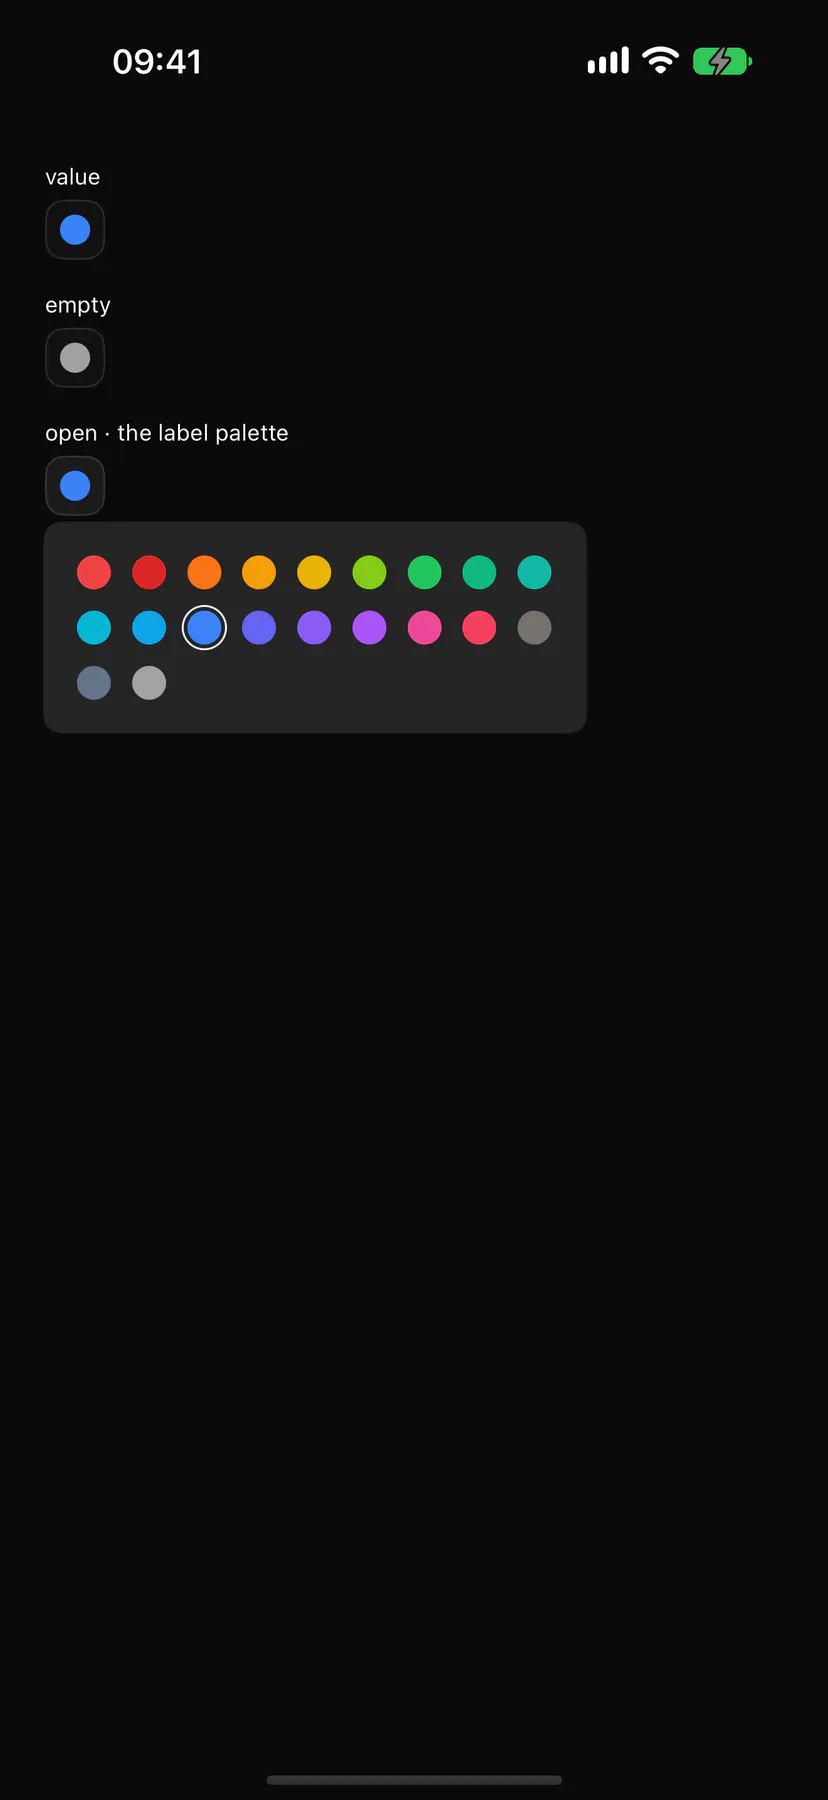
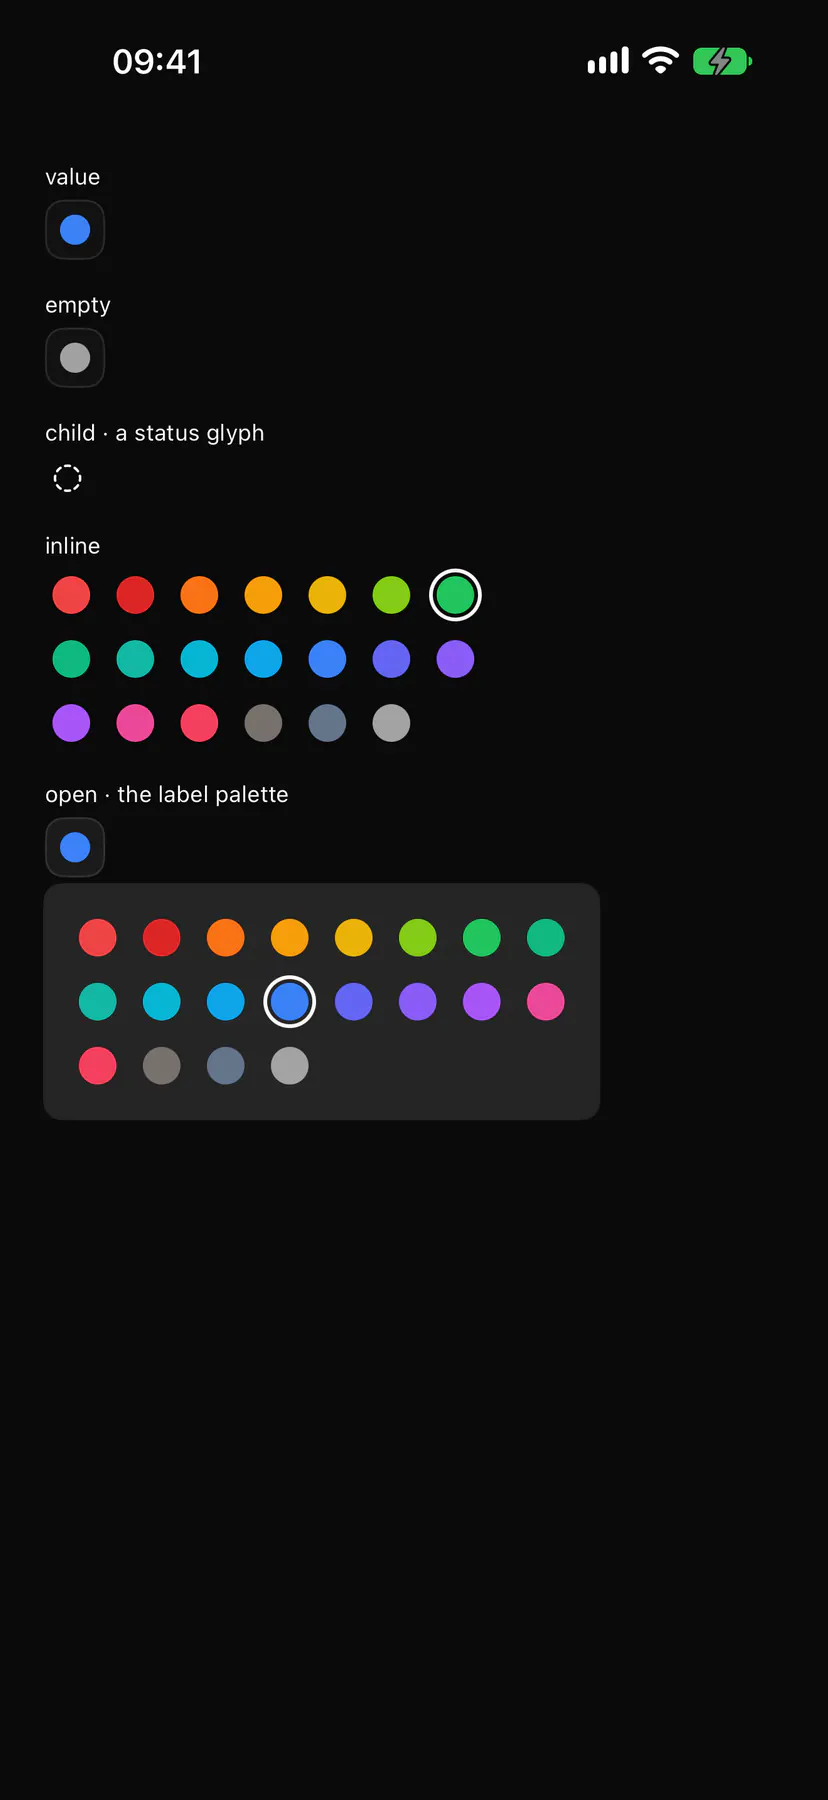
EXP-1775: Swift pickerPick replay + iOS shot of exponential-ui-color-picker

Changed region(s): [[0.0302, 0.2178, 0.7246, 0.6222], [0.3321, 0.9644, 0.6643, 0.9956], [0.151, 0.2178, 0.3321, 0.2489]]

diff --git a/packages/exponential-ui-swift/Tests/ExponentialUITests/Round1ModelTests.swift b/packages/exponential-ui-swift/Tests/ExponentialUITests/Round1ModelTests.swift
@@ -720,6 +720,38 @@ final class Round1ModelTests: XCTestCase {
         }
     }
 
+    // MARK: - interactions-round1.json pickerPick (#EXP-1760, #EXP-1775)
+
+    /// Every pickerPick case through the MODEL: IconPicker / ColorPicker are
+    /// macros over a Popover; the trigger (or a child trigger) opens it, a
+    /// pick writes /value, fires `change` {value} and closes it; an inline
+    /// ColorPicker picks with no popover. The actions fired {name, context},
+    /// /value and whether the macro root's Popover is open.
+    func testPickerPickCasesOpenPickAndCloseThroughTheModel() throws {
+        let f = try XCTUnwrap(Fixtures.json("interactions-round1.json")["pickerPick"])
+        let surfaces = try XCTUnwrap(f["surfaces"]?.object)
+        let cases = f["cases"]?.array ?? []
+        XCTAssertEqual(cases.count, 7)
+        for c in cases {
+            let name = c["name"]?.string ?? "?"
+            let surface = try XCTUnwrap(surfaces[c["surface"]?.string ?? ""], name)
+            let rootId = try XCTUnwrap(surface["id"]?.string, name)
+            let host = Round1Host()
+            let m = try model(surface, host: host)
+            for (key, value) in c["data"]?.object ?? [:] { m.setData(path: "/\(key)", value: value) }
+            for step in c["steps"]?.array ?? [] {
+                let id = try XCTUnwrap(step["press"]?.string, "\(name): unknown step \(step.json)")
+                XCTAssertNotNil(m.index(of: id), "\(name): \(id)")
+                m.press(id: id)
+            }
+            let want = c["events"]?.array ?? []
+            XCTAssertEqual(host.actions.map(\.name), want.compactMap { $0["name"]?.string }, "\(name): names")
+            XCTAssertEqual(host.actions.map(\.context), want.map { $0["context"] ?? .object([:]) }, "\(name): contexts")
+            XCTAssertEqual(m.data["value"] ?? .null, c["value"] ?? .null, "\(name): /value")
+            XCTAssertEqual(m.layers.contains { $0.owner == rootId && $0.kind == "Popover" }, c["open"]?.bool == true, "\(name): open")
+        }
+    }
+
     // MARK: - interactions-round1.json keyRecorder (#EXP-1629)
 
     /// Every keyRecorder case through the MODEL: `press` = the generic press
